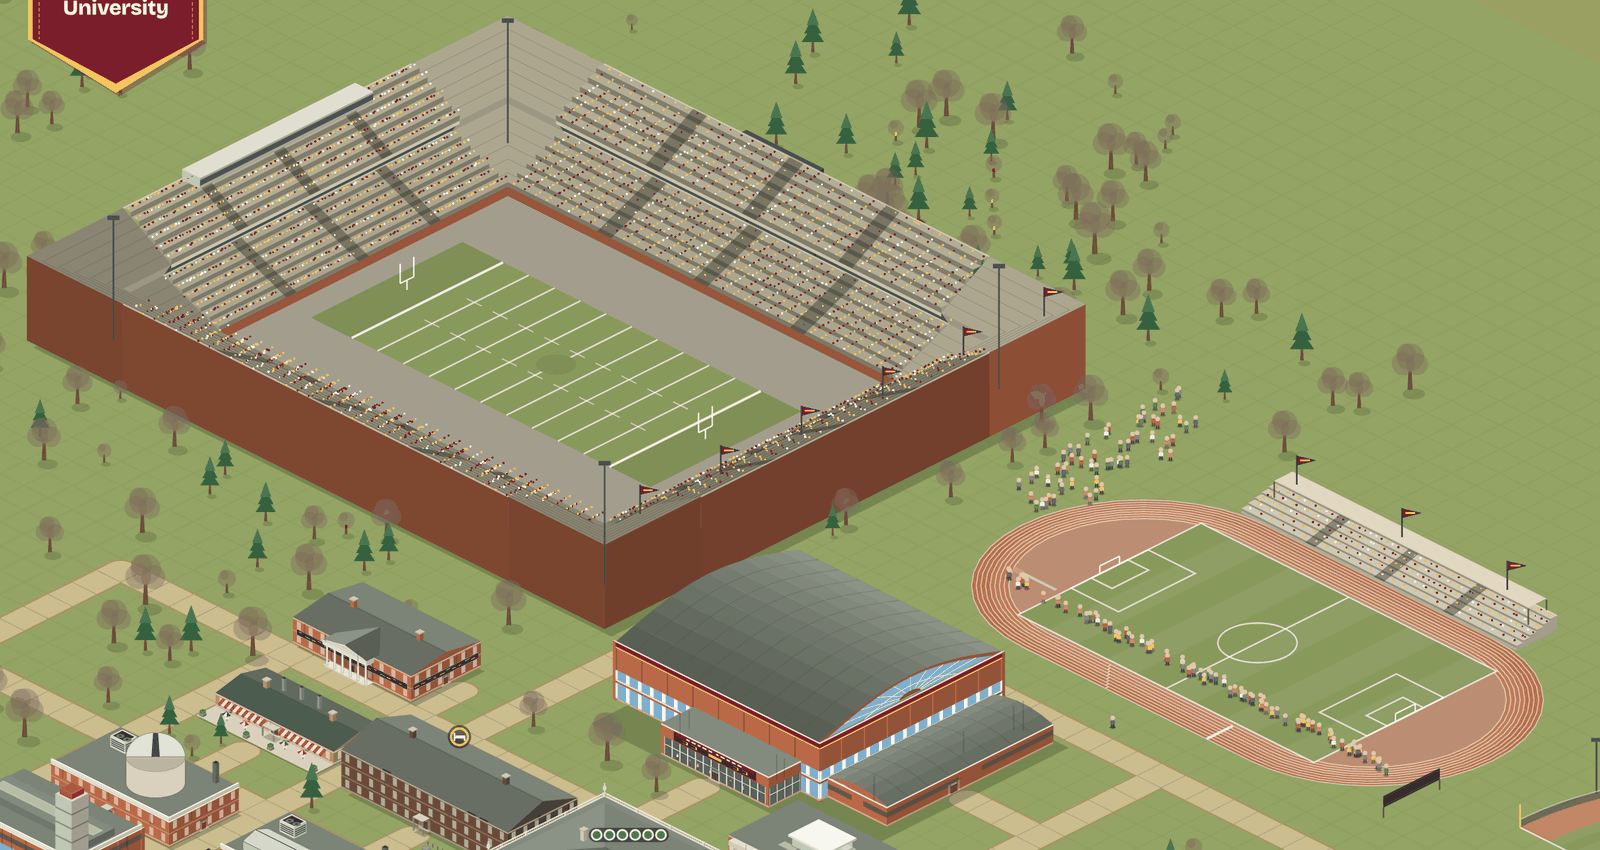
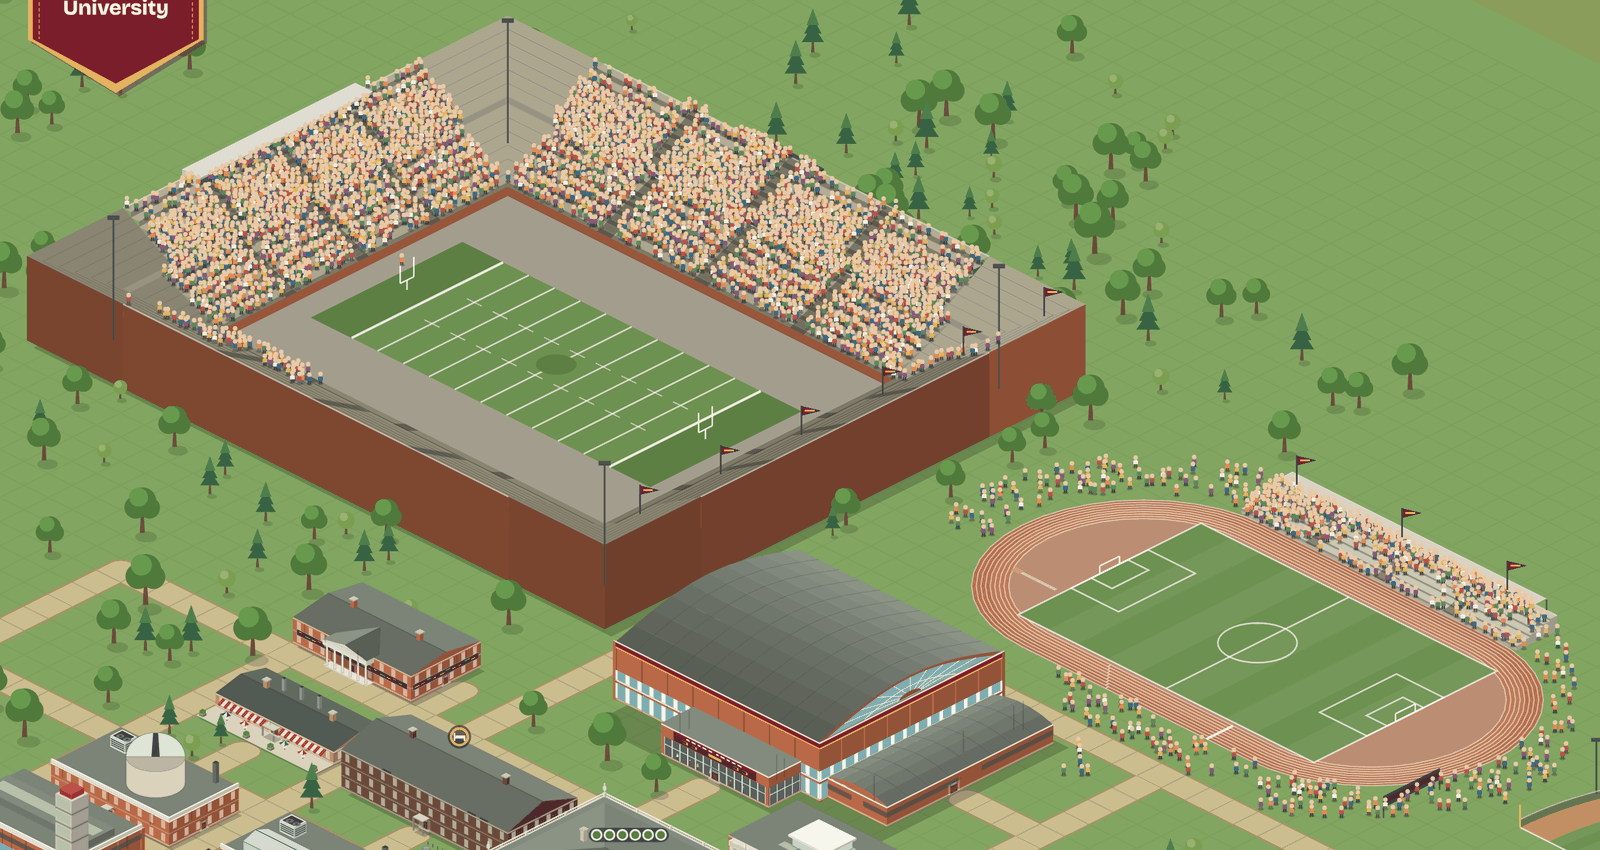
Plan 124: the owner's second round on the mock-ups (stands drawn as people and full more often, pennants the year after a title, the path tint and the course blocks dropped)
Claude-Session: https://claude.ai/code/session_01B1CvZALYnVja7ib6yhptH3

diff --git a/docs/plans/124-subtraction-as-decided/mockups.html b/docs/plans/124-subtraction-as-decided/mockups.html
@@ -63,9 +63,9 @@ footer { margin-top: 40px; font-size: 13px; color: var(--muted); max-width: 72ch
     <div class="pr-head"><h2><span>J</span> · The growth lever in the picture</h2>
       <p>Class places come from courses, 80 a course. Today only a chapter paragraph says so. These three changes put it on the screens where the limit bites and where the player can act on it.</p></div>
 
-    <div class="mock">
+    <div class="mock dropped">
       <h3>1. The admissions hall in course blocks</h3>
-      <span class="dec ask">Your comment: keep as is · read as no change, to confirm</span>
+      <span class="dec no">Not doing: the hall stays as it is (confirmed)</span>
       <div class="pair">
         <figure><img src="j1-hall-before.png" alt="The admissions hall today: a grid of 143 empty seats" loading="lazy"><figcaption>Today</figcaption></figure>
         <figure><img src="j1-hall-after.png" alt="The hall with seats grouped into 16 blocks of nine, and a dashed gold block marked +80" loading="lazy"><figcaption><b>Proposed</b></figcaption></figure>
@@ -83,9 +83,9 @@ footer { margin-top: 40px; font-size: 13px; color: var(--muted); max-width: 72ch
       <p class="say">The one place the lever is pressed says what it gives. The chip only shows while class places are short, so it means something when it appears.</p>
     </div>
 
-    <div class="mock">
+    <div class="mock dropped">
       <h3>3. The path network lights up while the path tool is held</h3>
-      <span class="dec rev">Revised: a larger network below</span>
+      <span class="dec no">Not doing: scrapped</span>
       <div class="pair">
         <figure><img src="j3-paths-before.png" alt="The campus with the path tool armed, today" loading="lazy"><figcaption>Today</figcaption></figure>
         <figure><img src="j3-paths-after.png" alt="The same view: the cross path tinted gold, the fountain plaza untinted and labelled not joined yet" loading="lazy"><figcaption><b>Proposed</b></figcaption></figure>
@@ -93,9 +93,9 @@ footer { margin-top: 40px; font-size: 13px; color: var(--muted); max-width: 72ch
       <p class="say">Paths joined to Founders Hall turn gold; anything not joined stays plain, so a path that stops one tile short shows itself. In the real version a building's doorstep also lights when the network reaches it.</p>
     </div>
 
-    <div class="mock">
+    <div class="mock dropped">
       <h3>3b. The same, on a year-30 campus</h3>
-      <span class="dec rev">New</span>
+      <span class="dec no">Not doing: scrapped</span>
       <div class="pair">
         <figure><img src="j4-paths-before.png" alt="A large year-30 campus with a grid of paths, path tool armed" loading="lazy"><figcaption>Today</figcaption></figure>
         <figure><img src="j4-paths-after.png" alt="The same campus: almost every path gold; one block at lower left plain, labelled not joined" loading="lazy"><figcaption><b>Proposed</b></figcaption></figure>
@@ -169,14 +169,13 @@ footer { margin-top: 40px; font-size: 13px; color: var(--muted); max-width: 72ch
 
     <div class="mock">
       <h3>1b. Fully upgraded venues, with crowds</h3>
-      <span class="dec rev">New</span>
+      <span class="dec rev">Revised: real people in the stands</span>
       <div class="pair four" style="grid-template-columns:1fr">
         <figure><img src="venues-before.png" alt="The fully upgraded football stadium and multi-sport field in an ordinary week: empty stands" loading="lazy"><figcaption>Today, an ordinary week</figcaption></figure>
-        <figure><img src="venues-game.png" alt="The same venues in a home-game week: sparse coloured specks in the stands" loading="lazy"><figcaption>Today, a home-game week</figcaption></figure>
-        <figure><img src="venues-after.png" alt="Title week: the stands packed in maroon and gold, pennants along the stadium rim and the field's stand, walkers gathered outside and along the track" loading="lazy"><figcaption><b>Proposed</b>, the week of a title</figcaption></figure>
+        <figure><img src="venues-game.png" alt="The same venues in a home-game week: sparse coloured specks in the stands" loading="lazy"><figcaption>Today, a home-game week: the dots go</figcaption></figure>
+        <figure><img src="venues-after.png" alt="A full week: both venues' stands filled with the game's walkers as spectators, a crowd standing around the track, and pennants along the stadium rim and the field's stand" loading="lazy"><figcaption><b>Proposed</b>: a full week, the year after a title</figcaption></figure>
       </div>
-      <p class="say">The year-30 campus's Football Stadium at its full three upgrades and its Multi-Sport Field at two. In an ordinary week the stands are empty. In a home-game week the game already puts spectators in the stands, as small coloured specks. In a title week the stands pack in the college's colours, and walkers gather outside the stadium and along the track. One pennant per title hangs along the venue's rim and stays for good: six on the stadium and three on the field here, for illustration.</p>
-      <p class="note"><strong>To decide when building it:</strong> whether a regular home game should also show the stands fuller than today's specks. Here only the title week changes.</p>
+      <p class="say">The year-30 campus's Football Stadium at its full three upgrades and its Multi-Sport Field at two. The stands are empty some weeks and full on others, often enough that a player sees both, without following the game's fixtures. A full stand is filled with people drawn like the walkers, in place of today's coloured dots, and on a full week more walkers stand around the track, not on it. Pennants go up the year after a title, one per title, along the venue's rim, and stay: six on the stadium and three on the field here, for illustration.</p>
     </div>
 
     <div class="mock dropped">

diff --git a/docs/plans/124-subtraction-as-decided.md b/docs/plans/124-subtraction-as-decided.md
@@ -141,7 +141,7 @@ review put up for cutting. So of the twelve cards:
 | G | F1, R-4, R-5, T-1 | Loose ends: the dead action, the scroll, the panel, the clip tool |
 | H | §4.1 (card 4) | The hall rises at the founding |
 | I | §4.2 (card 3) | A click finishes the admissions animation |
-| J | §4.3 (card 5) | The growth lever in the picture: seats by course, "+80 places", the path network |
+| J | §4.3 (card 5) | "+80 places" beside the next Develop |
 | K | §4.4 (card 7) | Prestige as four pillar bars, with the target as a ghost tick |
 | L | §4.5 (card 8) | The map carries what the tabs say: dark windows, queues |
 | M | §4.6 (card 10) | The big moments on the map: title pennants, the specialization's plot, the Final Report staged |
@@ -320,9 +320,9 @@ them showed one thing to change: a single window is too small to darken
 readably, so PR L darkens the hall's program dot instead.
 
 **The owner's comments on the mock-ups (3 November 2026):**
-- J.1, the admissions hall in course blocks: "keep this as is". Read as no
-  change; awaiting the owner's confirmation.
-- J.2 and J.3: approved. J.3 gained a second mock-up on a large campus.
+- J.1, the admissions hall in course blocks: no change (confirmed).
+- J.2: approved. J.3, the path network's tint: scrapped after a second
+  mock-up on a large campus.
 - K: the prestige chip stays as it is. The tab heads are approved.
 - L: both approved, with the dot in place of windows. The queue uses the
   game's own walkers.
@@ -330,7 +330,13 @@ readably, so PR L darkens the hall's program dot instead.
   specialization's staked plot is not wanted. The staged Final Report is
   approved.
 - Added at the owner's request: a mock-up of the fully upgraded stadium and
-  multi-sport field with crowds.
+  multi-sport field with crowds. The owner's notes on it:
+  - today's coloured dots in the stands don't read as a crowd;
+  - spectators should be people;
+  - the stands should be full often enough to be seen, without following the
+    fixtures;
+  - the crowd stands around the field, not on it;
+  - pennants go up the year after a title.
 
 The review's cards also proposed things to *add* in place of what they cut,
 and the cut list didn't ask about them. The owner agreed to all seven. Several
@@ -354,18 +360,12 @@ The rain, the admit line and the pour take about 4 s each summer
 anywhere on the page jumps them to their end state, as reduced motion already
 does. The coach (kept, X6) is unaffected. **S.**
 
-### PR J — The growth lever in the picture (card 5, B-4, B-7, B-12)
+### PR J — "+80 places" (card 5, B-7, B-12)
 
-1. **Seats by course.** On the admissions page, the hall the class pours into is
-   drawn in rows, one row of 80 seats per course taught. A full hall shows its
-   rows full, so "the hall is full" has its cause in the picture.
-2. **"+80 places".** The next *Develop* button in the Curriculum shows "+80
-   places" while seats are short, the one place the lever is pressed.
-3. **The path network.** While the path tool is armed, the paths joined to
-   Founders Hall are tinted, and a building's doorstep lights when the network
-   reaches it, so a path one tile short shows itself.
-
-It needs a mock-up of the hall's rows before code. **M.**
+The next *Develop* button in the Curriculum shows a "+80 places" chip while
+class places are short, the one place the growth lever is pressed. The
+admissions hall stays as it is, and the path network's tint was scrapped (the
+owner, on the mock-ups). **S.**
 
 ### PR K — Prestige as four pillar bars (card 7, D-1, D-9b)
 
@@ -396,12 +396,21 @@ in every vernacular. **M–L.**
 
 ### PR M — The big moments on the map (card 10, C-1, C-2, C-9)
 
-1. **Titles.** Each national title hangs a pennant in the college's colours
-   along its venue's rim, stacking, for good. The title's page stays (A2). In
-   the week of the title, the venue's stands pack in the college's colours
-   (denser than a home game's crowd), and walkers gather outside the venue.
-   The crowd is the game's own walkers.
-2. **The Final Report.** It opens over the campus as it stands. The six grades
+1. **Full stands, drawn as people.** Today a venue's crowd is coloured dots
+   in the stands, and only in the three home-game weeks
+   (`mapOccasions.ts`). Instead:
+   - Spectators are drawn like the walkers (`Walkers.tsx`'s figure), seated
+     along the stands' rows.
+   - A venue is full on a share of weeks, about one in three, picked from the
+     map's own random numbers so it stays put for the week. It doesn't follow
+     the fixtures: the point is that a player sees full stands often.
+   - On a full week, more walkers stand around the venue, around the track and
+     not on it.
+   - The dots go.
+2. **Titles.** The year after a national title, a pennant in the college's
+   colours goes up along its venue's rim, one per title, stacking, for good.
+   The title's page stays (A2).
+3. **The Final Report.** It opens over the campus as it stands. The six grades
    stamp in one by one (`GradeMark`, a `tick` each), "Students taught" counts up,
    and the fanfare plays on the final grade. The fanfare moves from the 50th
    admissions' resolve (`resolveAdmissions.ts:79`) to the reveal.

diff --git a/docs/plans/README.md b/docs/plans/README.md
@@ -142,7 +142,7 @@ the repository root, and the game as it actually is lives in `docs/design/` and
 | 121 | [Championships](121-championships.md) | Titles for a maxed unspecialized program every two or three years instead of every ten or more, dearer top venues, and the two-titles-a-year question answered. Tuned in the sim. PRs A–E. | Landed |
 | 122 | [The Ginger playtest](122-the-ginger-playtest.md) | Ginger's playtest: the college's full name in the welcome, the objectives drawer opening from the bottom right, no stray text selection, "is complete", every door one tile wide on a tile's centre (the Original Commons, the Student Center and a checker for the rest), a done chapter that stays while its tab is open, the first summer's chapter opening with the summer, short guided walks through the Treasury, Students, History and Faculty tabs, no batch button, no "+80 places" on the program row, and a path to the road drawn by the player. PRs A–J. | Landed |
 | 123 | [A review by subtraction](123-a-review-by-subtraction.md) | A new format for full game reviews, aimed at polish, juice and cohesion: five passes (a census of every surface, a run with the explanations hidden, a juice scorecard per core verb, the systems drawn as one web, a signal dictionary) and a synthesis capped at twelve cards, each stating its net change in words, surfaces and features. PRs A–E. | Landed |
-| 124 | [Subtraction, as decided](124-subtraction-as-decided.md) | The owner's answers to Plan 123's cut list (9 cut, 10 trim, 19 keep): the camera's buttons on every device and a skip for its chapter, objectives that open when they can be done, year 1's explaining cut, a quieter band, cues, names and entrances, promises removed, one campus figure, and the review's bugs; then the cards' additions: the hall rising at the founding, a skippable admissions animation, seats drawn by course, prestige as pillar bars, dark windows and queues on the map, title pennants and a staged Final Report, alumni warmth and endowed chairs connected. PRs A–N. | Proposed |
+| 124 | [Subtraction, as decided](124-subtraction-as-decided.md) | The owner's answers to Plan 123's cut list (9 cut, 10 trim, 19 keep): the camera's buttons on every device and a skip for its chapter, objectives that open when they can be done, year 1's explaining cut, a quieter band, cues, names and entrances, promises removed, one campus figure, and the review's bugs; then the cards' additions, as revised on the mock-ups: the hall rising at the founding, a skippable admissions animation, "+80 places" on Develop, pillar bars on the tabs, dark program dots and queues on the map, full stands drawn as people with title pennants, a staged Final Report, alumni warmth and endowed chairs connected. PRs A–N. | Proposed |
 | 060 | [Screens](060-screens.md) | The owner's playthrough, screens half: pill buttons that wrap become rounded rectangles; the Athletics tab in two columns with program cards carrying each sport's standing; a lab's options close; Curriculum schools and programs collapse once complete; a venue's panel tiles its teams; the History standings as six cards; the final report a full page; and the next-step line names a dark program first. One PR. | Landed |
 
 ## Naming
